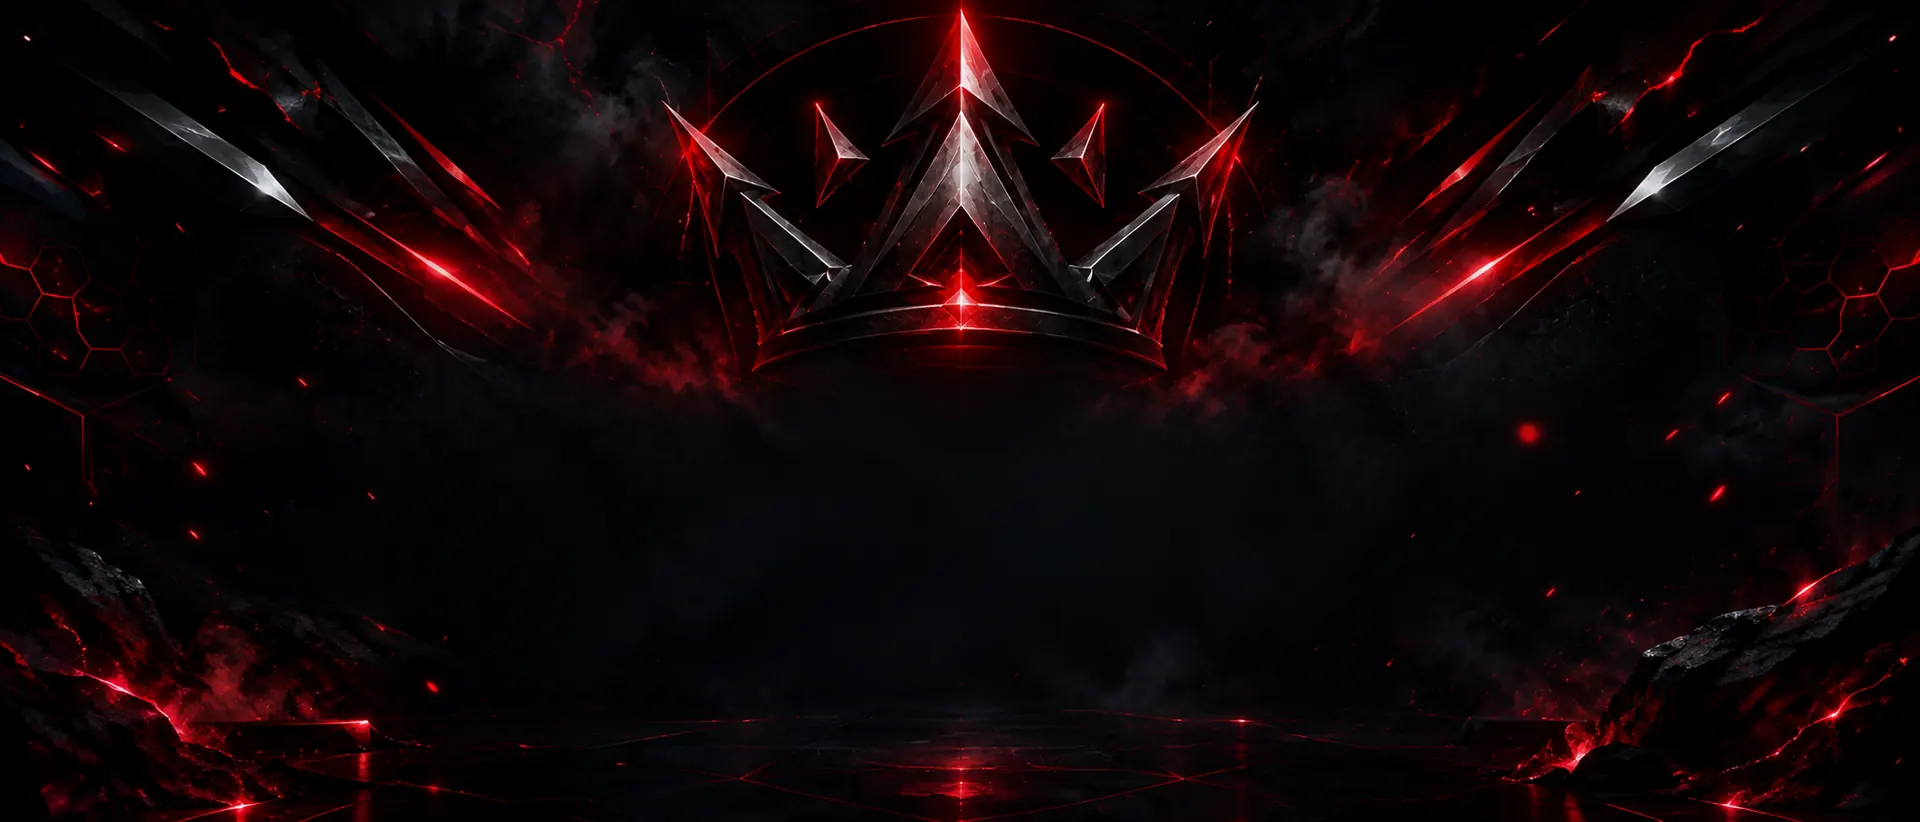
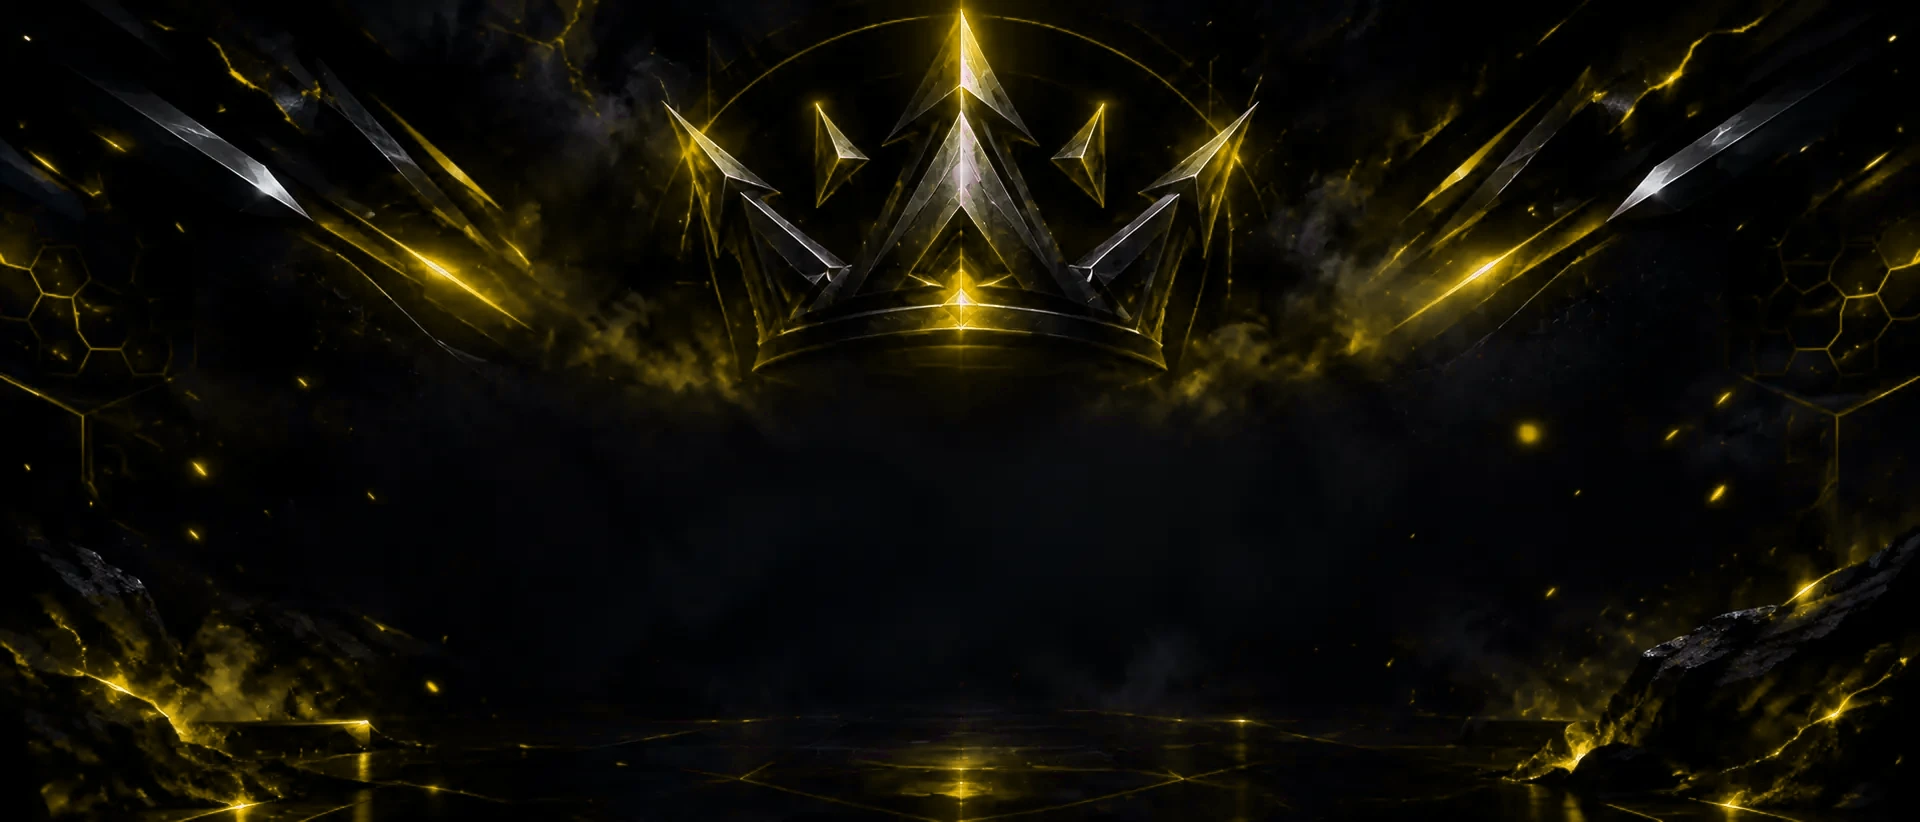
Replace sigma-vercel with yellow server style

diff --git a/public/index.html b/public/index.html
@@ -23,27 +23,27 @@
   --f-display:'Orbitron','Segoe UI',system-ui,sans-serif;
   --f-body:'Exo 2',system-ui,-apple-system,'Segoe UI',Roboto,sans-serif;
   --f-mono:'JetBrains Mono',ui-monospace,Consolas,monospace;
-  --blue:#e0263a;--violet:#9aa4b8;--cyan:#ff5468;
-  --grad:linear-gradient(135deg,#ff5468 0%,#e0263a 48%,#8d94a6 100%);
-  --ok:#22e0a0;--bad:#ff3b4e;
+  --blue:#e6a800;--violet:#f4d35e;--cyan:#ffd21f;
+  --grad:linear-gradient(135deg,#ffd21f 0%,#e6a800 48%,#b89000 100%);
+  --ok:#22e0a0;--bad:#ffbf00;
   --cut:14px;
   --mark:url("images/logo.webp?v=2");
 }
 @property --a{syntax:'<angle>';initial-value:0deg;inherits:false}
 html[data-theme="dark"]{
   --bg:#05060a;--tx:#f0f1f5;--mut:#a9adb8;--hi:#ffffff;
-  --card:rgba(16,16,20,.74);--card2:rgba(22,22,27,.8);--line:rgba(224,38,58,.30);--line-soft:rgba(224,38,58,.16);
-  --inp:rgba(10,10,13,.8);--ph:#8c8f99;--glow:rgba(224,38,58,.45);
-  --btn-tx:#ffffff;--sel:rgba(224,38,58,.18);--shadow:0 10px 40px rgba(0,0,0,.5);
+  --card:rgba(16,16,20,.74);--card2:rgba(22,22,27,.8);--line:rgba(230,168,0,.30);--line-soft:rgba(230,168,0,.16);
+  --inp:rgba(10,10,13,.8);--ph:#8c8f99;--glow:rgba(230,168,0,.45);
+  --btn-tx:#ffffff;--sel:rgba(230,168,0,.18);--shadow:0 10px 40px rgba(0,0,0,.5);
   --veil:linear-gradient(180deg,rgba(5,6,10,.35),rgba(5,6,10,.1) 40%,rgba(5,6,10,.6));
-  --acc:#ff5468;--credit-op:.5;--glow-soft:rgba(224,38,58,.22);--gtx:linear-gradient(90deg,#ffb3bb,#ff5468 50%,#c9ced6);
+  --acc:#ffd21f;--credit-op:.5;--glow-soft:rgba(230,168,0,.22);--gtx:linear-gradient(90deg,#fff0a6,#ffd21f 50%,#f4d35e);
 }
 html[data-theme="light"]{
   --bg:#f2f1ee;--tx:#1b1b1f;--mut:#5a5b63;--hi:#0b0b0d;
-  --card:rgba(255,255,255,.74);--card2:rgba(255,255,255,.88);--line:rgba(200,30,42,.24);--line-soft:rgba(200,30,42,.13);
-  --inp:rgba(255,255,255,.92);--ph:#777b86;--glow:rgba(200,30,42,.42);
-  --btn-tx:#ffffff;--sel:rgba(200,30,42,.12);--shadow:0 10px 36px rgba(30,20,20,.14);
-  --veil:none;--acc:#c81e2a;--credit-op:.6;--ok:#0a8f5e;--bad:#c81e3a;--glow-soft:rgba(200,30,42,.18);--gtx:linear-gradient(90deg,#c81e2a,#ff5468 50%,#9aa4b8);
+  --card:rgba(255,255,255,.74);--card2:rgba(255,255,255,.88);--line:rgba(212,155,0,.24);--line-soft:rgba(212,155,0,.13);
+  --inp:rgba(255,255,255,.92);--ph:#777b86;--glow:rgba(212,155,0,.42);
+  --btn-tx:#ffffff;--sel:rgba(212,155,0,.12);--shadow:0 10px 36px rgba(30,20,20,.14);
+  --veil:none;--acc:#d49b00;--credit-op:.6;--ok:#0a8f5e;--bad:#d49b00;--glow-soft:rgba(212,155,0,.18);--gtx:linear-gradient(90deg,#d49b00,#ffd21f 50%,#9aa4b8);
 }
 *{box-sizing:border-box;margin:0;padding:0;-webkit-tap-highlight-color:transparent}
 html{scroll-behavior:smooth;-webkit-text-size-adjust:100%}
@@ -51,9 +51,9 @@ body{font-family:var(--f-body);color:var(--tx);background:var(--bg);min-height:1
   padding:env(safe-area-inset-top,0) env(safe-area-inset-right,0) env(safe-area-inset-bottom,0) env(safe-area-inset-left,0);line-height:1.5}
 body::before{content:"";position:fixed;inset:0;z-index:-2;background:#05060a url("images/bg-mobile.webp") center top/cover no-repeat}
 html[data-theme="light"] body::before{background:
-  radial-gradient(60% 40% at 15% 8%,rgba(200,30,42,.14),transparent 70%),
-  radial-gradient(55% 45% at 90% 12%,rgba(154,164,184,.3),transparent 70%),
-  radial-gradient(70% 50% at 50% 100%,rgba(200,30,42,.1),transparent 70%),
+  radial-gradient(60% 40% at 15% 8%,rgba(212,155,0,.14),transparent 70%),
+  radial-gradient(55% 45% at 90% 12%,rgba(255,210,31,.3),transparent 70%),
+  radial-gradient(70% 50% at 50% 100%,rgba(212,155,0,.1),transparent 70%),
   linear-gradient(135deg,#f5f0ee 0%,#eceaea 48%,#f2eeee 100%)}
 body::after{content:"";position:fixed;inset:0;z-index:-1;background:var(--veil);pointer-events:none}
 @media(min-width:768px){body::before{background-image:url("images/bg-desktop.webp");background-position:center top}}
@@ -87,7 +87,7 @@ header{display:flex;align-items:center;justify-content:space-between;gap:12px;pa
 .menu .ico{width:19px;height:19px;color:var(--acc)}
 
 /* chamfered frame */
-.cham{--c:var(--cut);position:relative;padding:1px;background:linear-gradient(135deg,var(--blue),rgba(96,130,255,.25) 40%,rgba(139,92,246,.7));
+.cham{--c:var(--cut);position:relative;padding:1px;background:linear-gradient(135deg,var(--blue),rgba(255,210,31,.25) 40%,rgba(230,168,0,.7));
   clip-path:polygon(var(--c) 0,100% 0,100% calc(100% - var(--c)),calc(100% - var(--c)) 100%,0 100%,0 var(--c))}
 .cham>.in{background:var(--card);backdrop-filter:blur(10px);-webkit-backdrop-filter:blur(10px);position:relative;height:100%;
   clip-path:polygon(calc(var(--c) - .6px) 0,100% 0,100% calc(100% - var(--c) + .6px),calc(100% - var(--c) + .6px) 100%,0 100%,0 calc(var(--c) - .6px))}
@@ -136,15 +136,19 @@ h1 i{font-style:normal;background:var(--gtx);background-size:220% 100%;-webkit-b
 .live::before{content:"";width:8px;height:8px;border-radius:50%;background:currentColor;box-shadow:0 0 10px currentColor}
 .live.off{color:var(--bad)}.live.wait{color:var(--mut)}
 
-.grid{display:grid;grid-template-columns:1fr;gap:8px}
-.srv{min-height:62px;display:flex;align-items:center;gap:8px;padding:8px 10px 12px;border-radius:15px;background:var(--card2);border:1px solid var(--line-soft);text-align:left;position:relative;transition:border-color .18s,box-shadow .18s,background .18s,transform .12s;overflow:hidden}
-.srv:hover{border-color:var(--line)}
+.grid{display:grid;grid-template-columns:1fr;gap:12px}
+.srv{min-height:116px;display:flex;align-items:center;gap:16px;padding:14px 18px 22px;border-radius:20px;background:linear-gradient(110deg,rgba(0,0,0,.88),rgba(5,15,12,.96));border:1px solid rgba(255,210,31,.72);text-align:left;position:relative;transition:border-color .18s,box-shadow .18s,background .18s,transform .12s;overflow:hidden}
+.srv:hover{border-color:#ffe34d;box-shadow:0 0 18px rgba(255,210,31,.12)}
 .srv:active{transform:scale(.98)}
-.srv .ico{width:24px;height:24px;color:var(--acc);flex:none}
-.srv .nm{display:block;font-weight:700;font-size:14.5px;color:var(--hi);white-space:nowrap;overflow:hidden;text-overflow:ellipsis;max-width:100%}
-.srv .ld{position:static;left:auto;top:auto;transform:none;width:auto;text-align:inherit;animation:none;display:block;font-size:12px;color:var(--mut);font-family:var(--f-mono);font-weight:600}
-.srv .tx{min-width:0;flex:1}
-.srv .rd{position:absolute;top:8px;right:8px;width:18px;height:18px;border-radius:50%;border:1.5px solid var(--mut);display:grid;place-items:center}
+.srv .ico{width:76px;height:76px;padding:17px;border-radius:17px;color:#ffe500;background:rgba(255,210,31,.10);flex:none;stroke:currentColor;stroke-width:1.8;filter:drop-shadow(0 0 5px rgba(255,210,31,.18))}
+.srv .nm{display:block;font-weight:800;font-size:19px;color:#f5f5f5;white-space:nowrap;overflow:hidden;text-overflow:ellipsis;max-width:100%;margin-bottom:5px}
+.srv .ld{position:static;left:auto;top:auto;transform:none;width:auto;text-align:inherit;animation:none;display:block;font-size:16px;color:#79e6d2;font-family:var(--f-mono);font-weight:700;margin-top:5px}
+.srv .tx{min-width:0;flex:1;padding-right:28px}
+.srv .rd{position:absolute;top:12px;right:12px;width:18px;height:18px;border-radius:50%;border:1.5px solid var(--mut);display:grid;place-items:center}
+.srv .status{display:block;font-size:15px;color:#00e676;font-weight:700;margin-top:1px}
+.srv .status::before{content:"";display:inline-block;width:10px;height:10px;border-radius:50%;background:#00e676;box-shadow:0 0 10px #00e676;margin-right:8px}
+.srv.off .status{color:#ffb52e}.srv.off .status::before{background:#ffb52e;box-shadow:0 0 8px #ffb52e}
+.srv .percent{position:absolute;right:18px;bottom:27px;font-size:20px;font-weight:800;color:#f4f4f4;font-family:var(--f-display)}
 .srv[aria-checked="true"]{border-color:var(--blue);background:var(--sel);box-shadow:0 0 0 1px var(--blue),0 0 22px var(--glow)}
 .srv[aria-checked="true"] .rd{background:var(--blue);border-color:var(--blue)}
 .srv[aria-checked="true"] .rd::after{content:"";width:5px;height:9px;border:solid #fff;border-width:0 2px 2px 0;transform:rotate(45deg) translate(-1px,-1px)}
@@ -154,10 +158,11 @@ h1 i{font-style:normal;background:var(--gtx);background-size:220% 100%;-webkit-b
 .bars u:nth-child(1){height:4px}.bars u:nth-child(2){height:7px}.bars u:nth-child(3){height:10px}.bars u:nth-child(4){height:12px}
 .bars.b1 u:nth-child(-n+1),.bars.b2 u:nth-child(-n+2),.bars.b3 u:nth-child(-n+3),.bars.b4 u:nth-child(-n+4){background:var(--blue)}
 /* capacity line: fills left-to-right as a server gets more connected users, animates on every refresh */
-.srv .fill-track{position:absolute;left:10px;right:10px;bottom:5px;height:3px;border-radius:2px;background:var(--line-soft);overflow:hidden}
-.srv .fill-bar{height:100%;width:0%;border-radius:2px;background:linear-gradient(90deg,#1fae5a,#34e07a);transition:width .7s cubic-bezier(.2,.8,.3,1)}
+.srv .fill-track{position:absolute;left:18px;right:92px;bottom:10px;height:7px;border-radius:2px;background:var(--line-soft);overflow:hidden}
+.srv .fill-bar{height:100%;width:0%;border-radius:8px;background:linear-gradient(90deg,#00d96b,#00ff75);box-shadow:0 0 9px rgba(0,255,117,.25);transition:width .7s cubic-bezier(.2,.8,.3,1)}
 /* Keep capacity progress green for every server, including currently offline entries. */
 .srv.off .fill-bar{background:linear-gradient(90deg,#1fae5a,#34e07a)}
+@media(max-width:420px){.srv{gap:12px;padding:12px 12px 22px;min-height:108px}.srv .ico{width:64px;height:64px;padding:14px}.srv .nm{font-size:17px}.srv .ld{font-size:14px}.srv .percent{right:12px;font-size:17px}.srv .fill-track{left:12px;right:78px}}
 #serverPanel{padding:8px}
 .sel-trigger{width:100%;min-height:64px;display:flex;align-items:center;gap:12px;padding:8px 14px 8px 10px;border-radius:15px;background:transparent;border:1px solid transparent;text-align:left;position:relative;transition:border-color .2s,box-shadow .25s,background .2s}
 .sel-trigger:hover,.sel-trigger[aria-expanded="true"]{background:var(--sel)}
@@ -183,7 +188,7 @@ h1 i{font-style:normal;background:var(--gtx);background-size:220% 100%;-webkit-b
 /* number */
 .phone{display:flex;align-items:stretch;border-radius:14px;background:var(--inp);border:1px solid var(--line);min-height:56px;position:relative;transition:border-color .18s,box-shadow .18s}
 .phone:focus-within{border-color:var(--blue);box-shadow:0 0 0 3px var(--sel)}
-.phone.err{border-color:var(--bad);box-shadow:0 0 0 3px rgba(255,84,112,.18)}
+.phone.err{border-color:var(--bad);box-shadow:0 0 0 3px rgba(255,191,0,.18)}
 .cc{display:flex;align-items:center;gap:8px;padding:0 12px;border-right:1px solid var(--line);min-width:112px;font-weight:600;font-size:16px;color:var(--hi);border-radius:14px 0 0 14px}
 .cc:hover{background:var(--sel)}
 .cc img,.cl img{width:28px;height:20px;border-radius:3px;object-fit:cover;flex:none}
@@ -203,21 +208,21 @@ h1 i{font-style:normal;background:var(--gtx);background-size:220% 100%;-webkit-b
 .hint-err{font-size:13px;color:var(--bad);margin-top:8px;min-height:0}
 
 /* generate */
-.gen{--c:18px;display:block;width:100%;padding:2px;background:linear-gradient(135deg,#ff5468,#e0263a 50%,#9aa4b8);background:conic-gradient(from var(--a),#ff5468,#e0263a 25%,#c9ced6 50%,#e0263a 75%,#ff5468);animation:rot 4.5s linear infinite;transition:transform .12s;
+.gen{--c:18px;display:block;width:100%;padding:2px;background:linear-gradient(135deg,#ffd21f,#e6a800 50%,#9aa4b8);background:conic-gradient(from var(--a),#ffd21f,#e6a800 25%,#f4d35e 50%,#e6a800 75%,#ffd21f);animation:rot 4.5s linear infinite;transition:transform .12s;
   clip-path:polygon(var(--c) 0,100% 0,100% calc(100% - var(--c)),calc(100% - var(--c)) 100%,0 100%,0 var(--c))}
 .genwrap{filter:drop-shadow(0 0 16px var(--glow));transition:filter .18s}
 .genwrap:hover{filter:drop-shadow(0 0 24px var(--glow)) brightness(1.1)}
 .genwrap.busy{filter:drop-shadow(0 0 8px var(--glow)) saturate(.8)}
 .gen .in{position:relative;overflow:hidden;display:flex;align-items:center;justify-content:space-between;gap:10px;min-height:64px;padding:0 18px;
-  background:linear-gradient(135deg,rgba(14,26,70,.95),rgba(40,22,96,.92));color:#fff;
+  background:linear-gradient(135deg,rgba(50,38,0,.95),rgba(88,61,0,.92));color:#fff;
   clip-path:polygon(calc(var(--c) - 1px) 0,100% 0,100% calc(100% - var(--c) + 1px),calc(100% - var(--c) + 1px) 100%,0 100%,0 calc(var(--c) - 1px))}
 .gen .in::after{content:"";position:absolute;inset:0;background:linear-gradient(110deg,transparent 38%,rgba(255,255,255,.2) 50%,transparent 62%);animation:sweep 3.8s ease-in-out infinite;pointer-events:none}
-.gen.loading .in::before{content:"";position:absolute;left:0;bottom:0;height:3px;width:38%;background:linear-gradient(90deg,transparent,#ff9aa5,#fff,#ff9aa5,transparent);animation:bar 1.1s ease-in-out infinite}
-html[data-theme="light"] .gen .in{background:linear-gradient(135deg,#c81e2a,#8d2230)}
+.gen.loading .in::before{content:"";position:absolute;left:0;bottom:0;height:3px;width:38%;background:linear-gradient(90deg,transparent,#ffe066,#fff,#ffe066,transparent);animation:bar 1.1s ease-in-out infinite}
+html[data-theme="light"] .gen .in{background:linear-gradient(135deg,#d49b00,#8d2230)}
 .gen:active{transform:scale(.99)}
 .gen:disabled{cursor:progress}
 .gen .lbl{font-family:var(--f-display);font-weight:700;font-size:13px;letter-spacing:2px;text-transform:uppercase;text-align:center;flex:1;white-space:nowrap}
-.gen .ico{width:24px;height:24px;flex:none;color:#8fb2ff}
+.gen .ico{width:24px;height:24px;flex:none;color:#ffe066}
 html[data-theme="light"] .gen .ico{color:#fff}
 .gen .spin{display:none;animation:spin .9s linear infinite}
 .gen.loading .bolt{display:none}.gen.loading .spin{display:block}.gen.loading .arr{opacity:.4}
@@ -308,7 +313,7 @@ html[data-theme="light"] .nova img{filter:brightness(0) drop-shadow(0 0 6px var(
 .sec .in::after{content:"";position:absolute;inset:0;background:linear-gradient(105deg,transparent 40%,var(--glow-soft) 50%,transparent 60%);animation:scan 5.5s ease-in-out infinite;pointer-events:none}
 .hero .bar{animation:barw 3s ease-in-out infinite}
 @keyframes barw{50%{width:96px}}
-.fx-b{position:absolute;left:50%;top:50%;width:6px;height:6px;border-radius:50%;background:var(--c,#ff5468);box-shadow:0 0 8px var(--c,#ff5468);pointer-events:none;animation:bst .9s cubic-bezier(.1,.7,.3,1) forwards}
+.fx-b{position:absolute;left:50%;top:50%;width:6px;height:6px;border-radius:50%;background:var(--c,#ffd21f);box-shadow:0 0 8px var(--c,#ffd21f);pointer-events:none;animation:bst .9s cubic-bezier(.1,.7,.3,1) forwards}
 .fx-r{position:absolute;left:50%;top:50%;width:120px;height:120px;border-radius:50%;border:2px solid var(--blue);pointer-events:none;animation:ring .9s ease-out forwards}
 .rip{position:absolute;border-radius:50%;background:rgba(255,255,255,.35);width:140px;height:140px;margin:-70px 0 0 -70px;transform:scale(0);animation:ripple .65s ease-out forwards;pointer-events:none}
 
@@ -427,7 +432,7 @@ html[data-theme="light"]{--wm:var(--wm-l)}
 
 <svg width="0" height="0" style="position:absolute" aria-hidden="true" focusable="false">
   <defs>
-    <linearGradient id="gA" x1="0" y1="0" x2="1" y2="1"><stop offset="0" stop-color="#ff5468"></stop><stop offset=".5" stop-color="#e0263a"></stop><stop offset="1" stop-color="#9aa4b8"></stop></linearGradient>
+    <linearGradient id="gA" x1="0" y1="0" x2="1" y2="1"><stop offset="0" stop-color="#ffd21f"></stop><stop offset=".5" stop-color="#e6a800"></stop><stop offset="1" stop-color="#9aa4b8"></stop></linearGradient>
   </defs>
 </svg>
 
@@ -464,12 +469,12 @@ html[data-theme="light"]{--wm:var(--wm-l)}
         </div>
         <div class="emblem" aria-hidden="true">
           <svg viewBox="0 0 200 200">
-            <defs><radialGradient id="rg" cx=".5" cy=".5" r=".5"><stop offset="0" stop-color="#e0263a" stop-opacity=".55"></stop><stop offset="1" stop-color="#e0263a" stop-opacity="0"></stop></radialGradient></defs>
+            <defs><radialGradient id="rg" cx=".5" cy=".5" r=".5"><stop offset="0" stop-color="#e6a800" stop-opacity=".55"></stop><stop offset="1" stop-color="#e6a800" stop-opacity="0"></stop></radialGradient></defs>
             <circle class="core" cx="100" cy="100" r="92" fill="url(#rg)"></circle>
-            <g class="ring2"><circle cx="100" cy="100" r="95" fill="none" stroke="#e0263a" stroke-width="1" stroke-dasharray="2 7" opacity=".7"></circle></g>
+            <g class="ring2"><circle cx="100" cy="100" r="95" fill="none" stroke="#e6a800" stroke-width="1" stroke-dasharray="2 7" opacity=".7"></circle></g>
             <g class="ring"><circle cx="100" cy="100" r="84" fill="none" stroke="url(#gA)" stroke-width="2.4" stroke-dasharray="190 60 40 238" stroke-linecap="round"></circle>
-              <path d="M26 70 40 58 38 76z M168 132 180 118 182 140z M92 12 104 6 108 20z M150 24 164 30 156 42z" fill="#e0263a" opacity=".55"></path></g>
-            <circle cx="100" cy="100" r="70" fill="none" stroke="#e0263a" stroke-opacity=".35" stroke-width="1"></circle>
+              <path d="M26 70 40 58 38 76z M168 132 180 118 182 140z M92 12 104 6 108 20z M150 24 164 30 156 42z" fill="#e6a800" opacity=".55"></path></g>
+            <circle cx="100" cy="100" r="70" fill="none" stroke="#e6a800" stroke-opacity=".35" stroke-width="1"></circle>
           </svg>
           <canvas class="viz" id="viz" aria-hidden="true"></canvas><span class="apexm hero-mark"></span><span class="orb"><i></i></span>
         </div>
@@ -668,8 +673,9 @@ function renderServers(){
     opt.className='srv'+(on?'':' off');
     opt.setAttribute('aria-label',logicalName+', '+cnt(s)+' of '+lim(s)+' sessions, '+(on?'online':'offline'));
     opt.innerHTML=
-      '<svg class="ico" viewBox="0 0 24 24"><rect x="3" y="3.5" width="18" height="7" rx="2"/><rect x="3" y="13.5" width="18" height="7" rx="2"/><path d="M7 7h.01M7 17h.01"/></svg>'+
-      '<span class="tx"><span class="nm">'+esc(logicalName)+'</span><span class="ld">'+(on?cnt(s)+'/'+lim(s):'offline')+'</span></span>'+
+      '<svg class="ico" viewBox="0 0 24 24"><rect x="3" y="3.5" width="18" height="5.5" rx="1.8"/><rect x="3" y="10.5" width="18" height="5.5" rx="1.8"/><rect x="3" y="17.5" width="18" height="3.5" rx="1.5"/><path d="M6 6.2h.01M6 13.2h.01M6 19.2h.01"/></svg>'+
+      '<span class="tx"><span class="nm">'+esc(logicalName)+'</span><span class="status">'+(on?'Online':'Offline')+'</span><span class="ld">'+cnt(s)+'/'+lim(s)+'</span></span>'+
+      '<span class="percent">'+pct+'%</span>'+
       '<span class="rd" aria-hidden="true"></span>'+
       '<span class="fill-track"><span class="fill-bar"></span></span>';
     opt.style.setProperty('--k',serverGrid.children.length);
@@ -756,7 +762,7 @@ codeBox.addEventListener('click',copyCode);
 codeBox.addEventListener('keydown',e=>{if(e.key==='Enter'||e.key===' '){e.preventDefault();copyCode()}});
 
 function burst(el,ring){
-  const cols=['#ff5468','#e0263a','#c9ced6','#22e0a0','#ffffff'];
+  const cols=['#ffd21f','#e6a800','#f4d35e','#22e0a0','#ffffff'];
   if(window.matchMedia('(prefers-reduced-motion: reduce)').matches)return;
   if(ring){const r=document.createElement('i');r.className='fx-r';el.appendChild(r);setTimeout(()=>r.remove(),950)}
   for(let i=0;i<14;i++){
